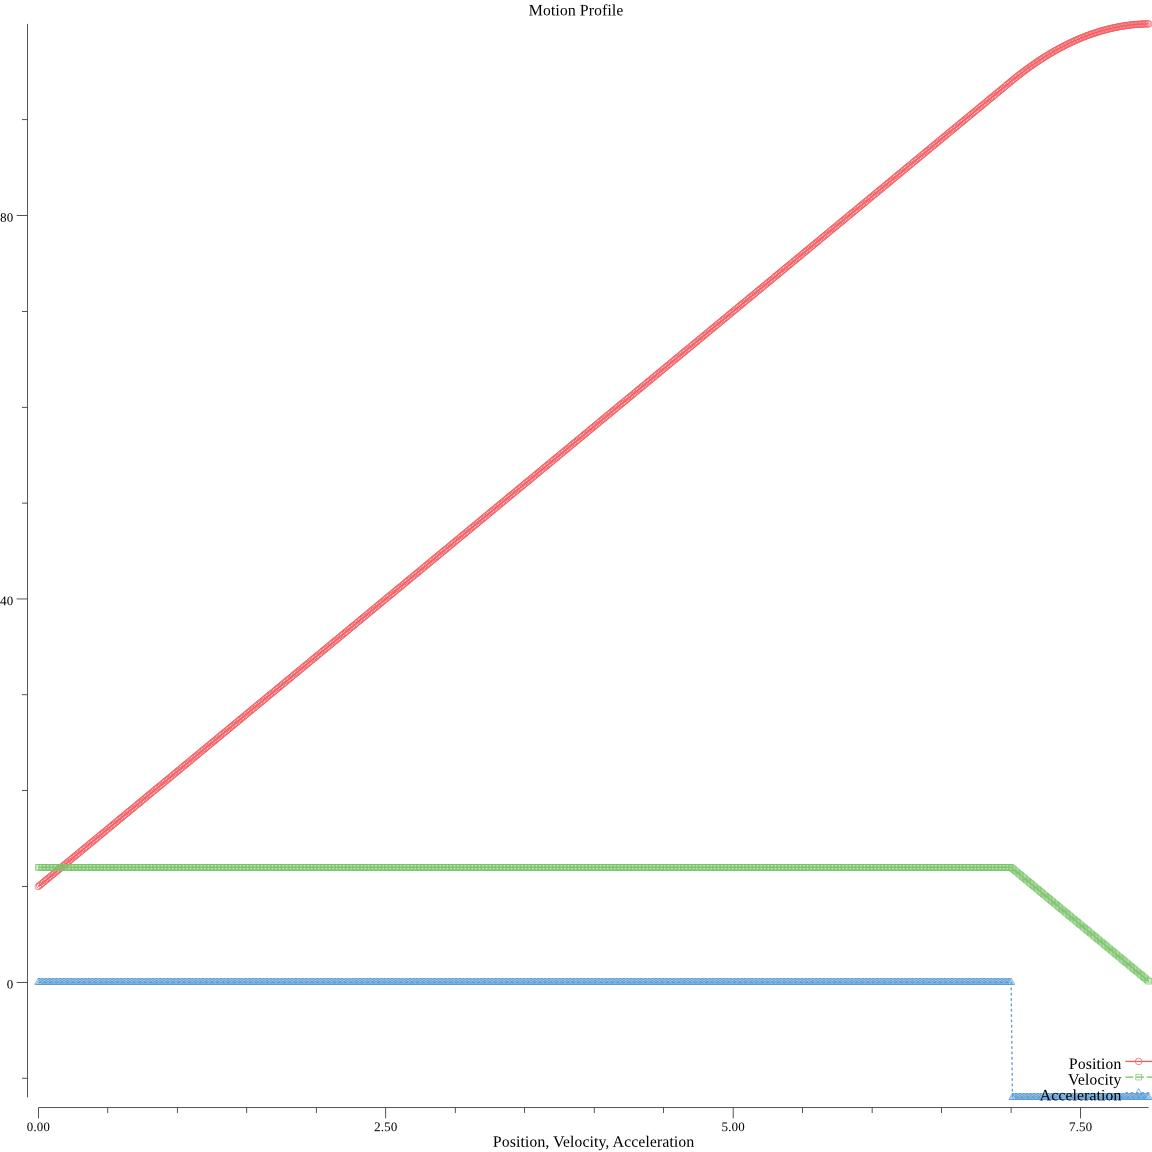
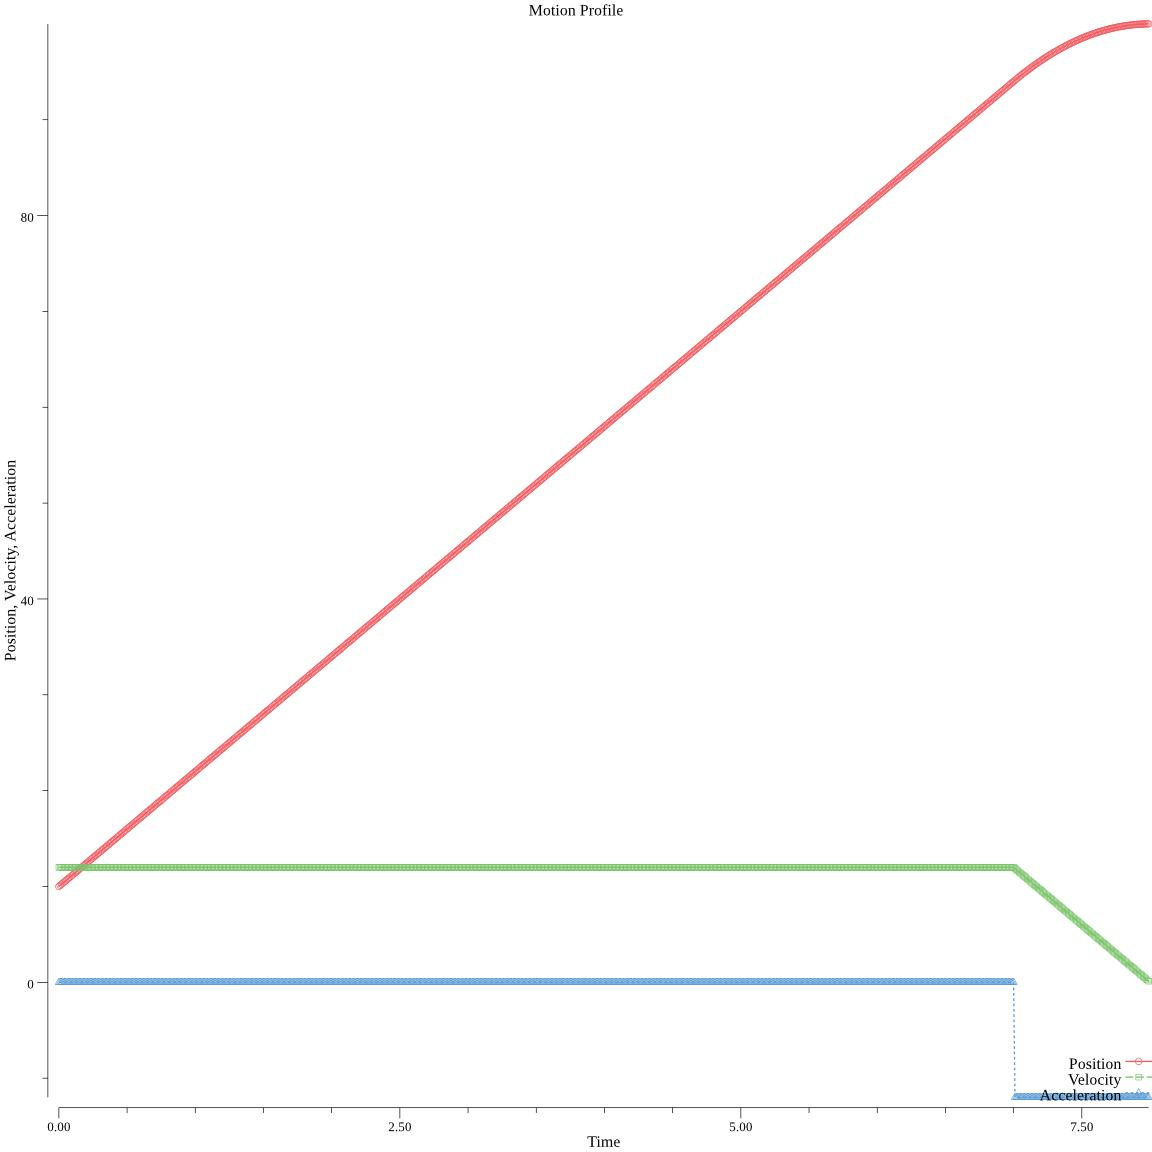
fix plotting axis label

diff --git a/trajectory/motion_profile.go b/trajectory/motion_profile.go
@@ -42,7 +42,7 @@ func (this *MotionProfile) Plot() {
     }
     p.Title.Text = "Motion Profile"
     p.X.Label.Text = "Time"
-    p.X.Label.Text = "Position, Velocity, Acceleration"
+    p.Y.Label.Text = "Position, Velocity, Acceleration"
 
     posPoints := make(plotter.XYs, this.Length())
     velPoints := make(plotter.XYs, this.Length())
